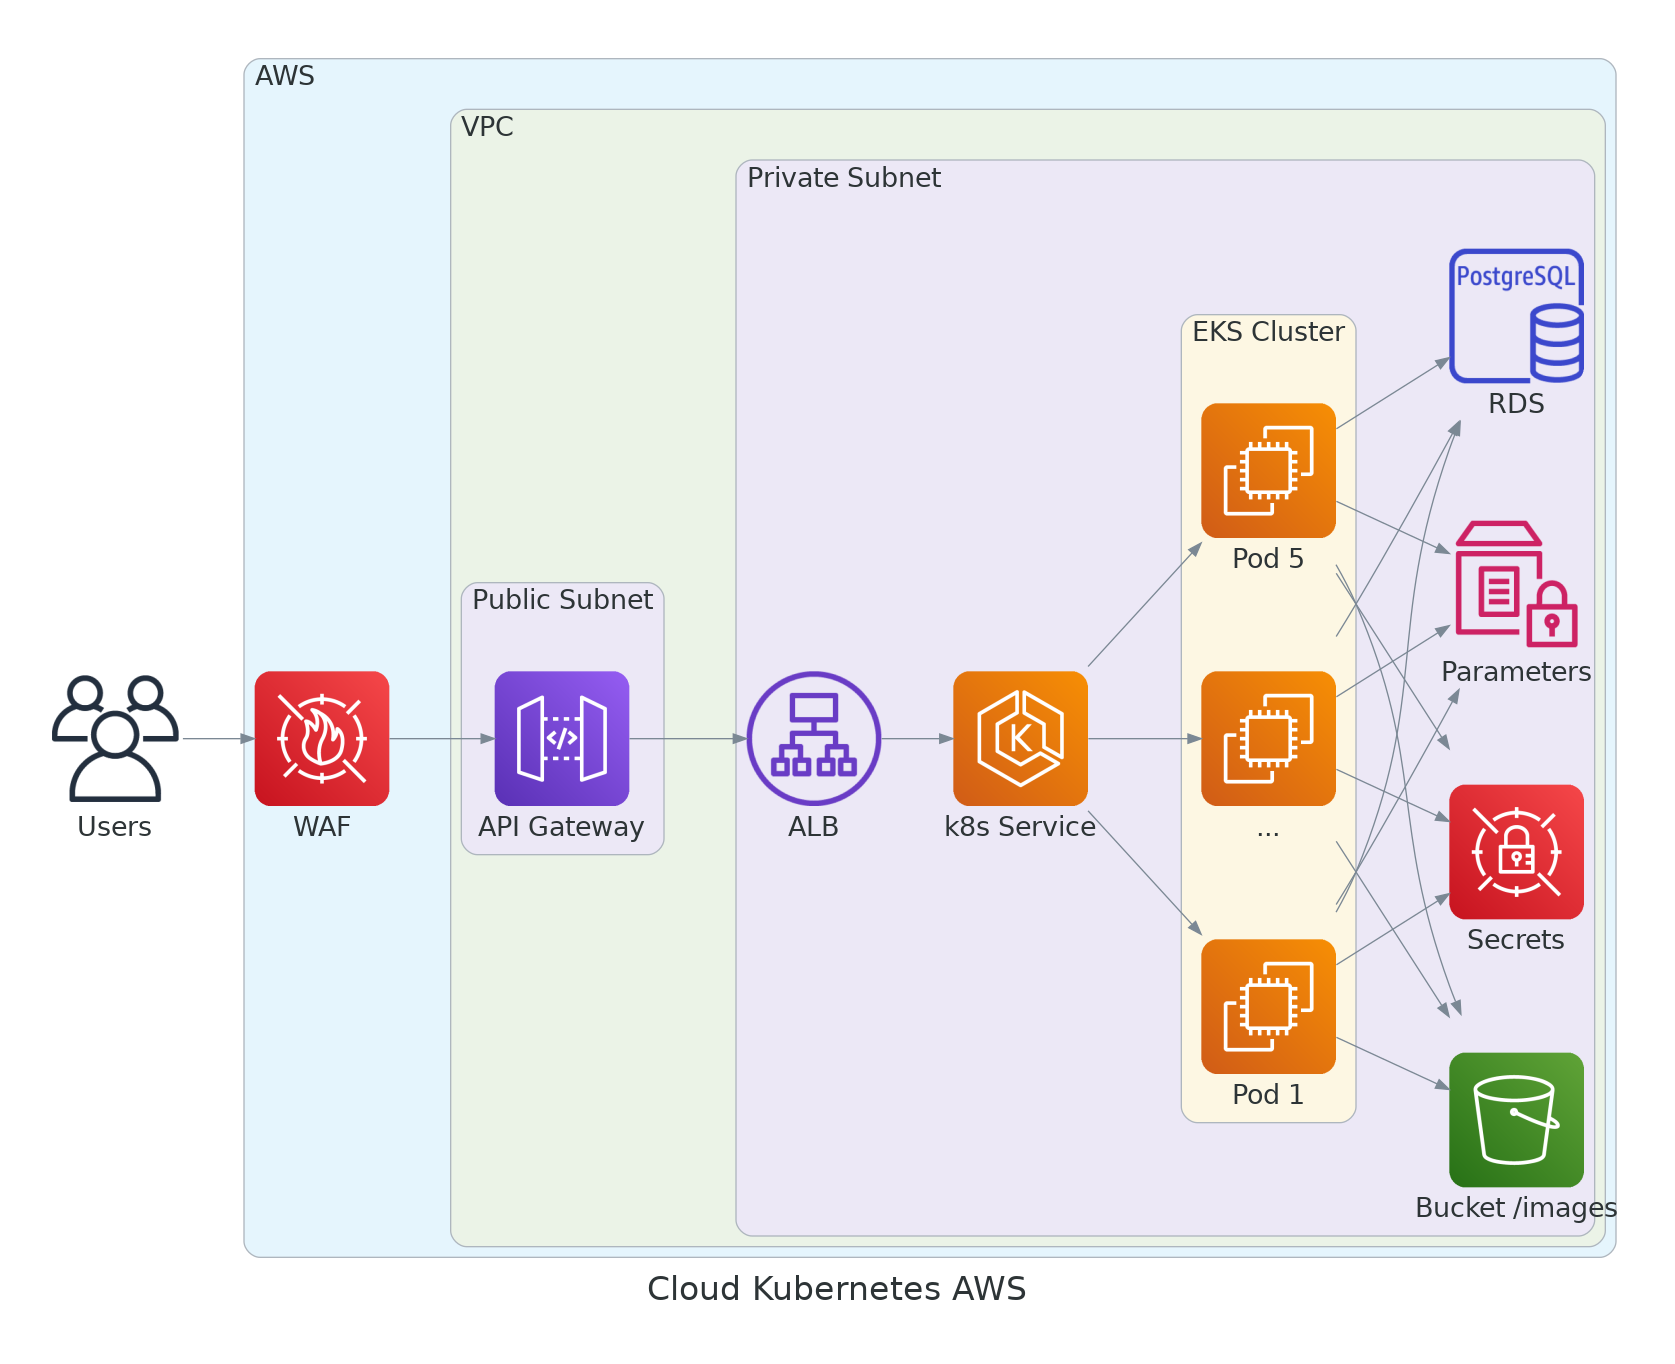
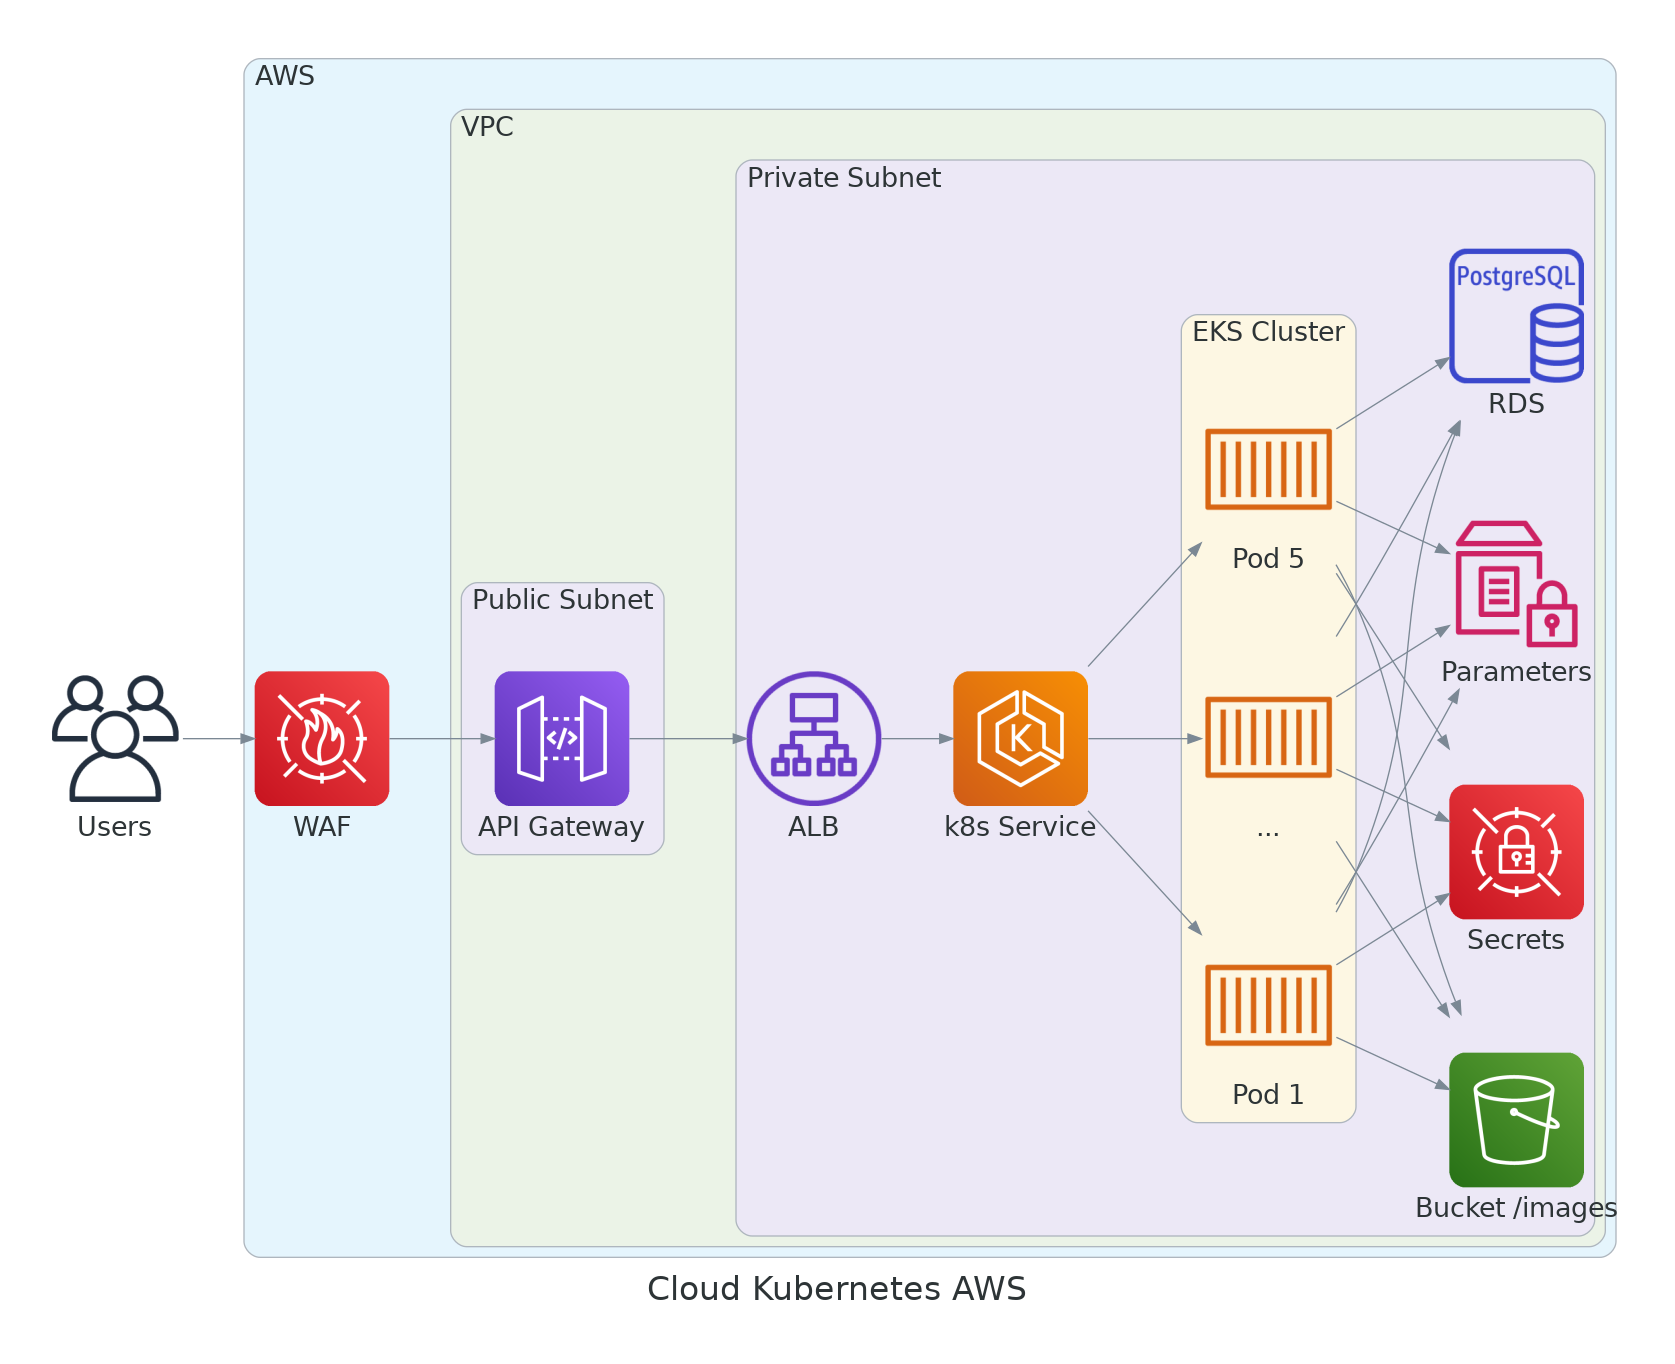
infra: ajustado o desenho das pods do EKS

Changed region(s): [[0.714, 0.6774, 0.8072, 0.8006], [0.714, 0.4927, 0.8072, 0.6158], [0.714, 0.2771, 0.8072, 0.4003]]

diff --git a/docs/infra/cloud_kubernetes_aws.py b/docs/infra/cloud_kubernetes_aws.py
@@ -1,5 +1,5 @@
 from diagrams import Cluster, Diagram
-from diagrams.aws.compute import EC2, EKS
+from diagrams.aws.compute import EKS, ElasticContainerServiceContainer as EC2
 from diagrams.aws.storage import S3
 from diagrams.aws.security import SecretsManager
 from diagrams.aws.management import SystemsManagerParameterStore as ParameterStore
